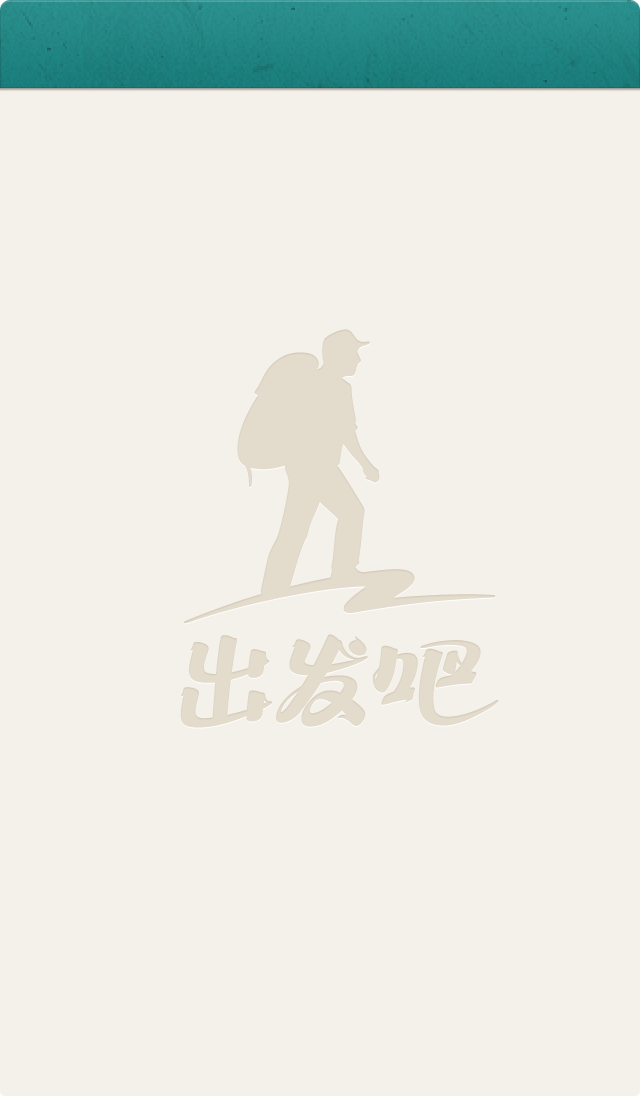
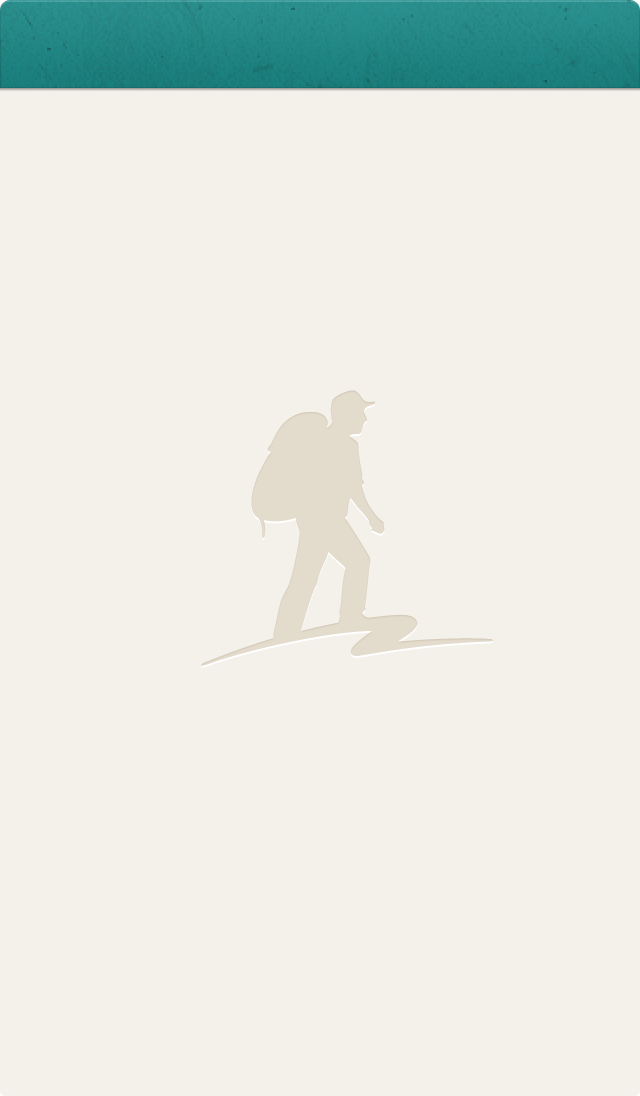
修改关于页面

Changed region(s): [[0.2812, 0.2792, 0.7812, 0.6825]]

diff --git a/Chufaba/AboutViewController.m b/Chufaba/AboutViewController.m
@@ -37,18 +37,17 @@
     self.view.backgroundColor = [UIColor colorWithRed:244/255.0 green:241/255.0 blue:235/255.0 alpha:1.0];
     self.navigationItem.title = @"关于出发吧";
     
-    UITextView *aboutView = [[UITextView alloc] initWithFrame:CGRectMake(10, 10, 300, self.view.bounds.size.height-65)];
+    UIImageView *imageView = [[UIImageView alloc] initWithFrame:CGRectMake(75, 40, 170, 72)];
+    imageView.image = [UIImage imageNamed:@"aboutlogo"];
+    
+    UITextView *aboutView = [[UITextView alloc] initWithFrame:CGRectMake(10, 140, 300, self.view.bounds.size.height-200)];
     aboutView.editable = FALSE;
     aboutView.backgroundColor = [UIColor clearColor];
     aboutView.font = [UIFont fontWithName:@"STHeitiSC-Medium" size:16];
     aboutView.textColor = [UIColor colorWithRed:77/255.0 green:73/255.0 blue:69/255.0 alpha:1.0];
-    aboutView.text = @"出发吧团队荣誉出品";
+    aboutView.text = @"“出发吧”是为热爱自助游的朋友们打造的一款自助游计划工具。\n热爱自助游的朋友或多或少都有过这样的经历：\n在各个网站上收集景点信息，再东拼西凑到一块，最后打印成十几页的行程单，旅途中查阅既不方便又容易丢失；\n旅行时，即使知道目的地在哪，也还是要不停问路，因为当地地图要看明白实在不容易；\n有本攻略写的确实不错，但当拿着半斤重的它站在十字路口翻看时，这本身就是一种负担。";
     
-    UIImageView *imageView = [[UIImageView alloc] initWithFrame:[aboutView bounds]];
-    imageView.image = [[UIImage imageNamed:@"kuang"] stretchableImageWithLeftCapWidth:8 topCapHeight:8];
-    [aboutView addSubview:imageView];
-    [aboutView sendSubviewToBack:imageView];
-    
+    [self.view addSubview:imageView];
     [self.view addSubview:aboutView];
 }
 
